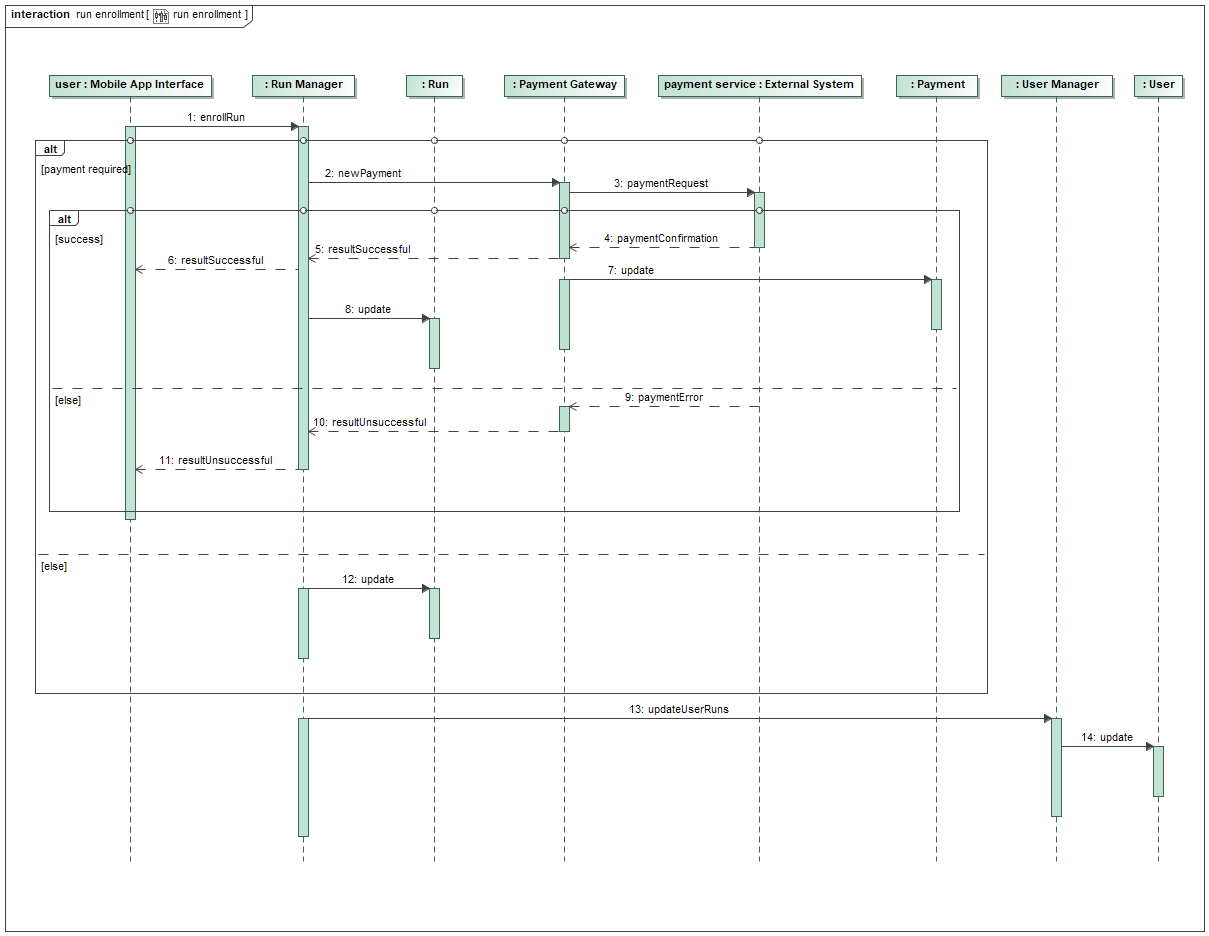
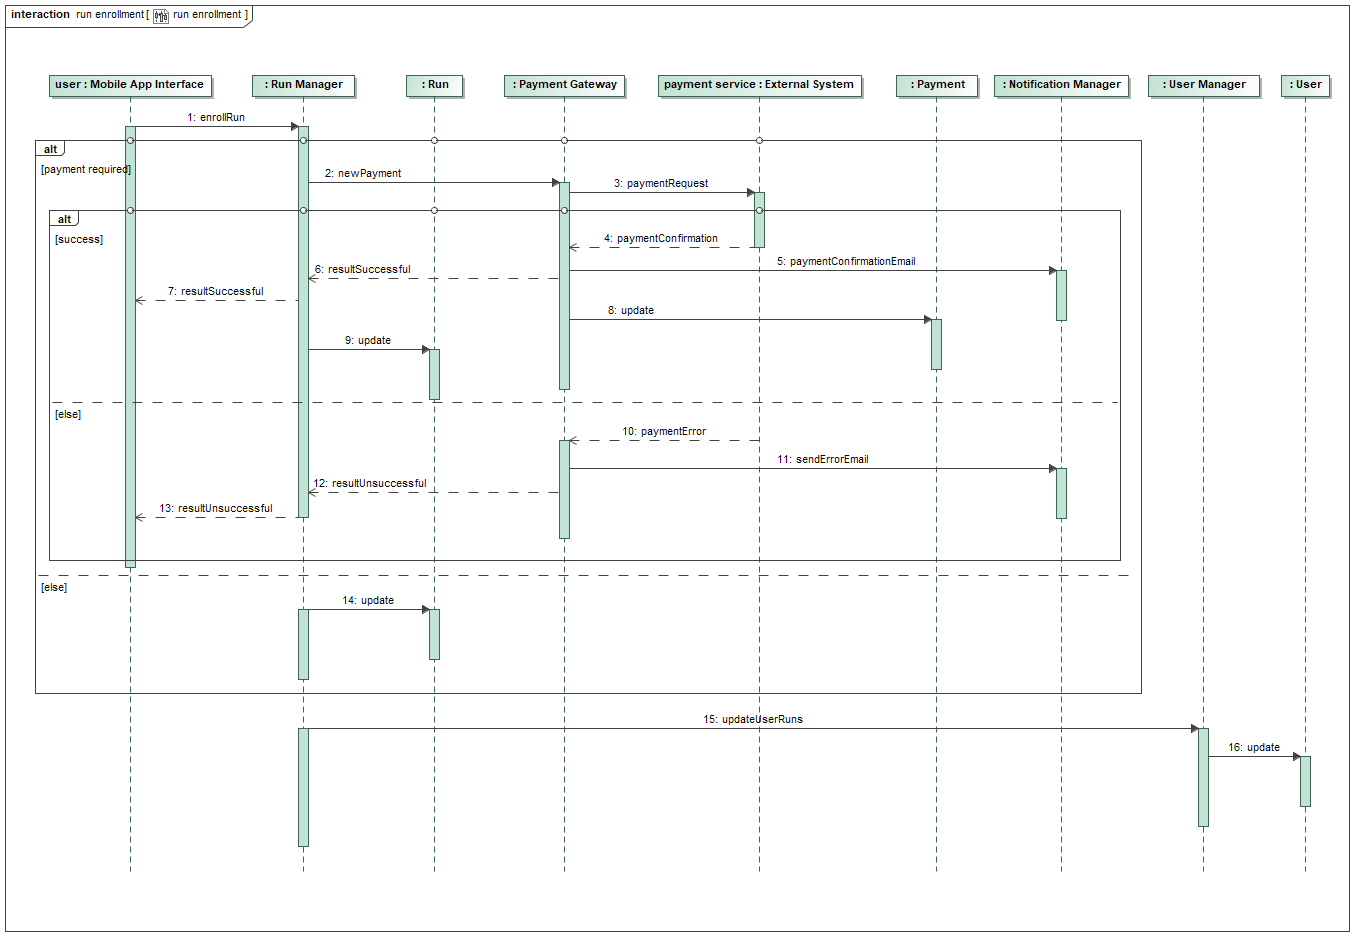
sequence and methods added

diff --git a/DD/sections/architectural_design.tex b/DD/sections/architectural_design.tex
@@ -176,85 +176,95 @@ The physical deployment of the system is done on 3 layers:
 \captionof{figure}{Deployment diagram of the system}
 \end{center}
 
+\clearpage
+
 \subsection{Runtime view}
+
 In this section, a detail of the interactions between modules is shown. In particular, it is presented how the server modules, the clients and the database system interact at runtime in the most important scenarios as regarding main functionalities of the system.
 
-The communication between the Application Server and the databases is abstracted by the Persistence Unit, so its data are represented with entity classes; the client is considered as a whole without dividing it into subcomponents.
+The communication between the application server and the databases is abstracted by the persistence unit, so its data are represented with entity classes; the client is considered as a whole without dividing it into subcomponents.
+
+\begin{center}
+\includegraphics[scale=0.45]{sections/diagrams/registration}
+\captionof{figure}{Sequence diagram of the steps to register to the application}
+\end{center}
+
+\begin{center}
+\includegraphics[scale=0.6]{sections/diagrams/login}
+\captionof{figure}{Sequence diagram of the application login}
+\end{center}
 
 \begin{center}
 \includegraphics[scale=0.4]{sections/diagrams/data_transfer}
-\newline
 \captionof{figure}{Sequence diagram of a data request from a third party}
 \end{center}
 
 \begin{center}
 \includegraphics[scale=0.4]{sections/diagrams/AutomatedSOS}
-\newline
 \captionof{figure}{Sequence diagram of an emergency situation}
 \end{center}
 
-For sake of legibility in the previous sequence diagram only the case in which the third party doesn't have a survey with the searched user in it is shown. If the third party has already got it, the request for consent isn't forwarded, and the DataHandler gives directly the data requested with the possibility to subscribe to it. This fuctionality is given through the methods \texttt{sendDataAskSubscription(healthData, position, subscriptonResult)} and \texttt{subscribeSetF\-requency(frequency)}, already shown in the diagram.
+For sake of legibility in the previous sequence diagram only the case in which the third party doesn't have a survey with the searched user in it is shown. If the third party has already got it, the request for consent isn't forwarded, and the Data Handler gives directly the data requested with the possibility to subscribe to it. this fuctionality is given through the methods "sendDataAskSubscription(healthData, potition, subscriptonResult)" and "subscribeSetFrequency(frequency)", already shown in the diagram. 
 
 \begin{center}
 \includegraphics[scale=0.35]{sections/diagrams/run_organization}
-\newline
 \captionof{figure}{Sequence diagram of a run creation and organization}
 \end{center}
 
 \begin{center}
 \includegraphics[scale=0.4]{sections/diagrams/run_enrollment}
-\newline
 \captionof{figure}{Sequence diagram of a run enrollment from a generic user}
 \end{center}
 
 \begin{center}
 \includegraphics[scale=0.4]{sections/diagrams/run_development}
-\newline
 \captionof{figure}{Sequence diagram of a run development from its start to its end}
 \end{center}
 
 \subsection{Component Interfaces}
-This section deals with the comunication between components and subcomponents in terms of interfaces. In fact, the Application Server's interfaces will be described in detail in order to specify exactly how they can be used from the other components and server's subcomponents.
 
-\subsubsection{Client}
-The communication between client (mobile application or script) and the Applicatin Server is committed to RESTful APIs, that transmit data on HTTPS protocol without further levels. The communication itself is an exchange of HTTP instructions, URLs and JSON objects.
+This section deals with the comunication between components and subcomponents in terms of interfaces. In fact, the Application Server's interfaces will be described in detail in order to specify exactly how they can be used from the other components and Server's subcomponents.
 
-\subsubsection{DBMSs}
+\subsection{Client}
 
-\subsubsection{External Systems}
-As regards the mapping service, the Application Service must interface with Google Maps JavaScript API in order to display tracks and runners in real time and in a personalized way, SDK Maps for Android and SDK Maps for iOS allow an easy way to configure and deploy location services on smartphone.
+The communication between Client (mobile application or script) and the Applicatin Server is committed to RESTful APIs, that transmit data on HTTP protocol without further levels. The communication itself is an exchange of HTTP instructions, URLs and JSON objects.
 
-Payments are committed to a Payment Handler who will provide the appropriate APIs to manage payments of any kind. In particular, the system must support the main payment methods: PayPal and the main credit cards.
+\subsection{DBMSs}
 
-As already set in the RASD document, for notifications and messages the Application Server uses the Push Notifications Gateway of own APIs (Push API, to send notifications when the application is closed) and a standard SMS \& Voice Gateway. 
-An example could be Nexmo, with its SMS \& Voice API RESTful service.
+\subsection{External Systems}
 
-Finally, applications that communicate with smart bands and wearable devices other than WearOS and watchOS are considered external systems. Therefore, they will provide their own APIs for communication with the Application Server.
+As regards the mapping service, the Application Service must interface with Google Maps JavaScript API in order to display tracks and runners in realtime and in a personalized way, SDK Maps for Android and SDK Maps for iOS, allow an easy way to configure and deploy location services on smartphone.
+
+Payments are committed to a Payment Handler who will provide the appropriate APIs to manage payments of any kind. In particular, the system must support the main payment methods: paypal and the main credit cards.
+
+As already set in the RASD document, for notifications and messages the Application Server uses the Push Notification Gateway of own APIs (Push API, to send notification when the application is closed) and a standard SMS \& Voice Gateway. 
+This could be smshosting, with its SMS API RESTful service.
+
+Finally, applications that communicate with smart bands and wearable devices other than Wear OS and watchOS are considered external systerms. Therefore, they will provide their own APIs for communication with the Application Server.
 
 \subsubsection{Interfaces of Application Server subcomponents}
-\paragraph{DataHandler}
+
+\paragraph{Data Handler}
 
 \begin{itemize}
 \item[ ]\texttt{requestDataSingleUser(fiscal code)}: method used to forward the request of data of a specific individual; it returns the reply (consent or deny).
 
-\item[ ]\texttt{requestDataThroughFilters(location, address, age, gender, timeSlot)}: method used to send, in order to submit the check, the request of data of an anonymized group of persons; it returns the check result (success/deny for privacy reasons).
+\item[ ]\texttt{requestDataThroughFilters(location, address, age, gender, timeSlot)}: method used to send, in order to submit to check, the request of data of an anonymized group of persons; it returns the check result (success/deny for privacy).
 
 \item[ ]\texttt{checkCardinality(specifiedUsersList)}: method used to check if the considered group should be considered anonymized; it returns a boolean result.
 
-\item[ ]\texttt{notifyData(user, healthData, position)}: method used to send data to the DataHandler module, that will store them in the NoSQL database: as already stated, only the Application Server can access the databases; it returns nothing.
+\item[ ]\texttt{notifyData(user, healthData, position)}: method used to send data to the Data Handler module, that will store them in the NoSQL database: as already stated, only the Application Server can access the databases; it returns nothing.
 \end{itemize}
 
-\paragraph{EmergencyManager}
+\paragraph{Emergency Manager}
 
 \begin{itemize}
 \item[ ]\texttt{notifyData(user, healthData, position)}: this method is the same above, it corresponds to the observer pattern's "update", but here it's used to send data in order to check if the user is in danger; it returns nothing.
 
 \item[ ]\texttt{checkThresholds(healthData)}: method used to check if each type of health data stays between certain thresholds (which can be taken from health data themselves).
-
-\item[ ]\texttt{activateEmergencyService}:
 \end{itemize}
 
-\paragraph{MapManager}
+\paragraph{Map Manager}
 
 \begin{itemize}
 \item[ ]\texttt{mapServiceRequest(locationName)}: method used to forward a request for a map; it returns the requested map.
@@ -266,7 +276,7 @@ Finally, applications that communicate with smart bands and wearable devices oth
 \item[ ]\texttt{updateLeaderboard(distancesSet)}: method used to recalculate the leaderboard according to the new runners' distances from the end on the path; it returns the new leaderboard.
 \end{itemize}
  
-\paragraph{NotificationManager}
+\paragraph{Notification Manager}
 
 \begin{itemize}
 \item[ ]\texttt{askUserConsent(user, thirdParty)}: method used to send a notification through which is asked consent for a survey; it returns the user's reply (positive ore negative).
@@ -279,29 +289,51 @@ Finally, applications that communicate with smart bands and wearable devices oth
 
 \item[ ]\texttt{runNotification(user, type)}: method used to create a notification for a runner, which message depends on the type of run notification; it returns nothing.
 
-\item[ ]\texttt{sendErrorEmail(user, paymentCode)}: method used to make NotificationManager send an e-mail to warn the user his/her payment wasn't successful; it returns nothing.
+\item[ ]\texttt{paymentConfirmationEmail(user, paymentCode)}: method used to make the Notification Manager module send an e-mail of confirmation for the payment; it returns nothing.
+
+\item[ ]\texttt{sendErrorEmail(user, paymentCode)}: method used to make Notification Manager send an e-mail to warn the user his/her payment wasn't successful; it returns nothing.
+
+\item[ ]\texttt{registrationSuccEmail(user)}: method used to make Notification Manager send an e-mail to confirm the success of the registration operation; it returns nothing.
+
+\item[ ]\texttt{sendCodeEmail(user, code)}: method used to make Notification Manager send an e-mail with an identification code in order to create a new password; it returns nothing.
 \end{itemize}
 
-\paragraph{PaymentGateway}
+\paragraph{Payment Gateway}
 
 \begin{itemize}
-\item[ ]\texttt{newPayment(userCredentials, paymentMethod)}: method used to forward a payment request; it returns the payment result (successful or unsuccessful).
+\item[ ]\texttt{newPayment(userCredentials, paymentMethod)}: method used to forward a payment request; it return the payment result (successful or unsuccessful).
 \end{itemize}
 
-\paragraph{RunManager}
+\paragraph{Run Manager}
 
 \begin{itemize}
 \item[ ]\texttt{stagesChosen(stagesSet)}: method used to send the track stages to submit to check; it returns nothing.
 
 \item[ ]\texttt{checkNumberStages(stagesSet)}: method used to check if the number of stages exceeds 10; it returns the check result (positive or negative).
 
-\item[ ]\textbf{formFilled(form)}: method used to send the run form filled out; it returns nothing.
+\item[ ]\texttt{formFilled(form)}: method used to send the run form filled out; it returns nothing.
 
-\item[ ]\textbf{checkValidity(form)}: method used to check if the form is filled correctly and it's therefore possible to create the run; it returns the check result (positive or negative).
+\item[ ]\texttt{checkValidity(form)}: method used to check if the form is filled correctly and it's therefore possible to create the run; it returns the check result (positive or negative).
 \end{itemize}
 
-\paragraph{UserManager}
+\paragraph{User Manager}
 
+\begin{itemize}
+\item[ ]\texttt{requestRegistration(e-mail, username, password)}: method used to forward a request to register to the application, it returns the result (deny or success).
+
+\item[ ]\texttt{checkregistrationData(form)}: method used to check if the registration form is complete and its fields have been completed in an acceptable way; it returns the check result.
+
+\item[ ]\texttt{loginRequest(username, password)}: method used to require to be identified as a user already registered; it returns the result (deny or acceptance).
+
+\item[ ]\texttt{passwordRecovery(username)}: method used to ask for the possibility to use a new password; it returns nothing.
+
+\item[ ]\texttt{createNewCode()}: method that create a temporary identification code in order to make the user choose his/her new password; it returns the code.
+
+\item[ ]\texttt{insertCode(code)}: method called to send the code and to check if it matches the code generated previously by the User Manager module; it returns the check result (right or wrong).
+
+\item[ ]\texttt{newCredentials(username, newPassword)}: method used to send the new password chosen by the user; it returns nothing.
+
+\end{itemize}
 
 \subsection{Selected Architectural Styles and Patterns}
 \subsubsection{Architectural Styles}
